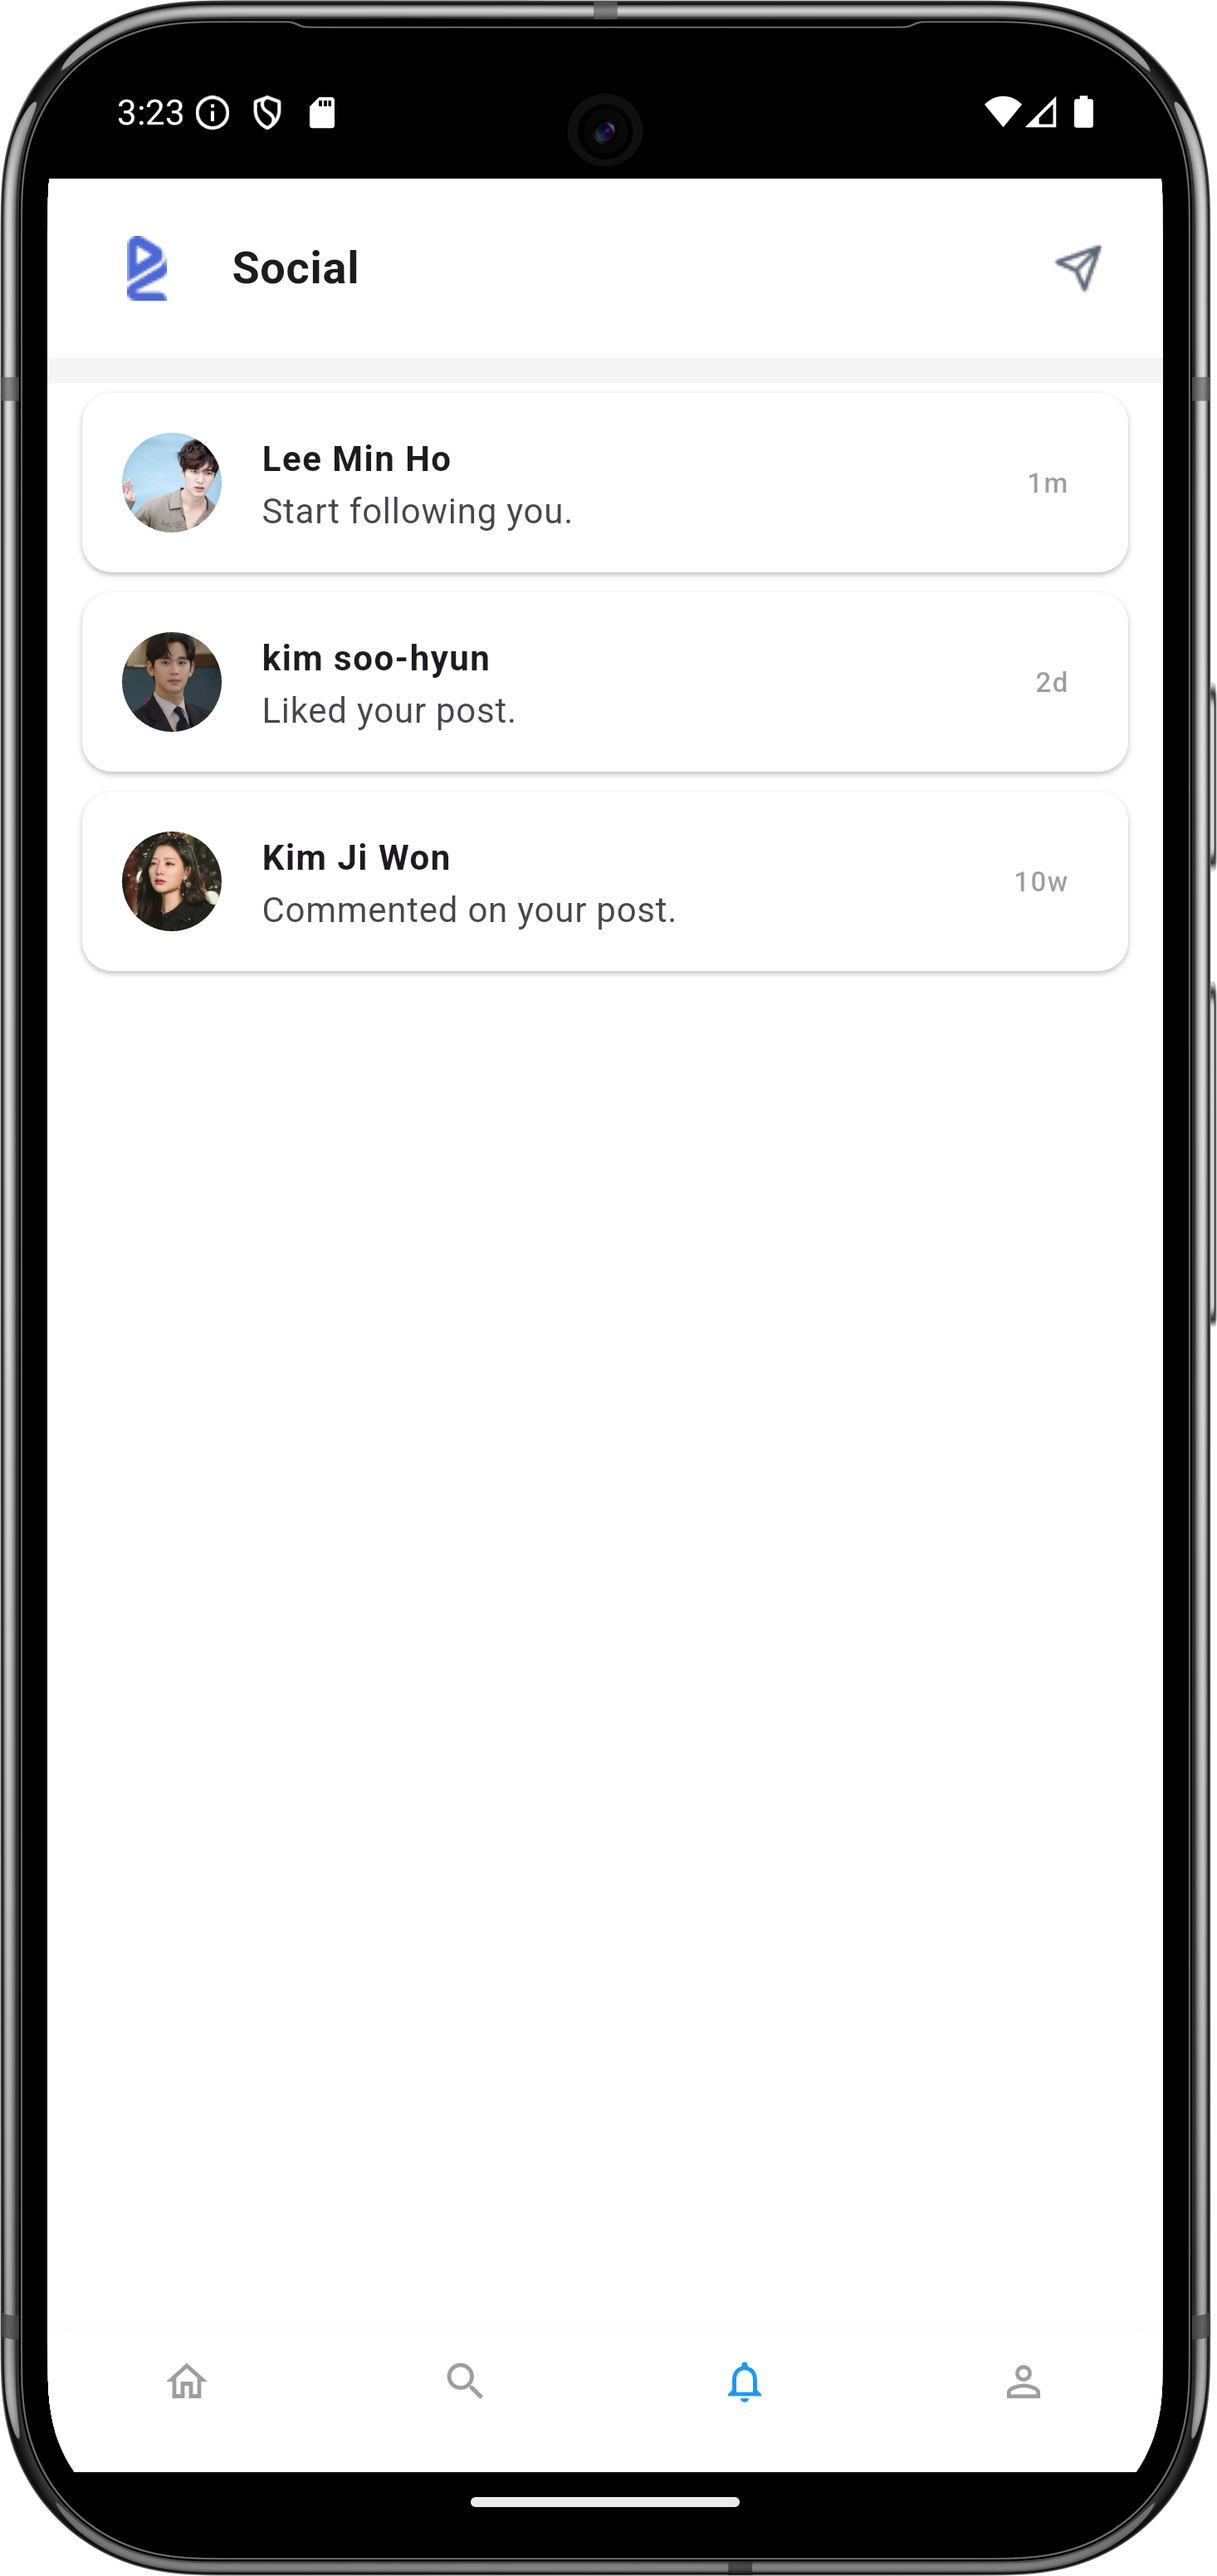
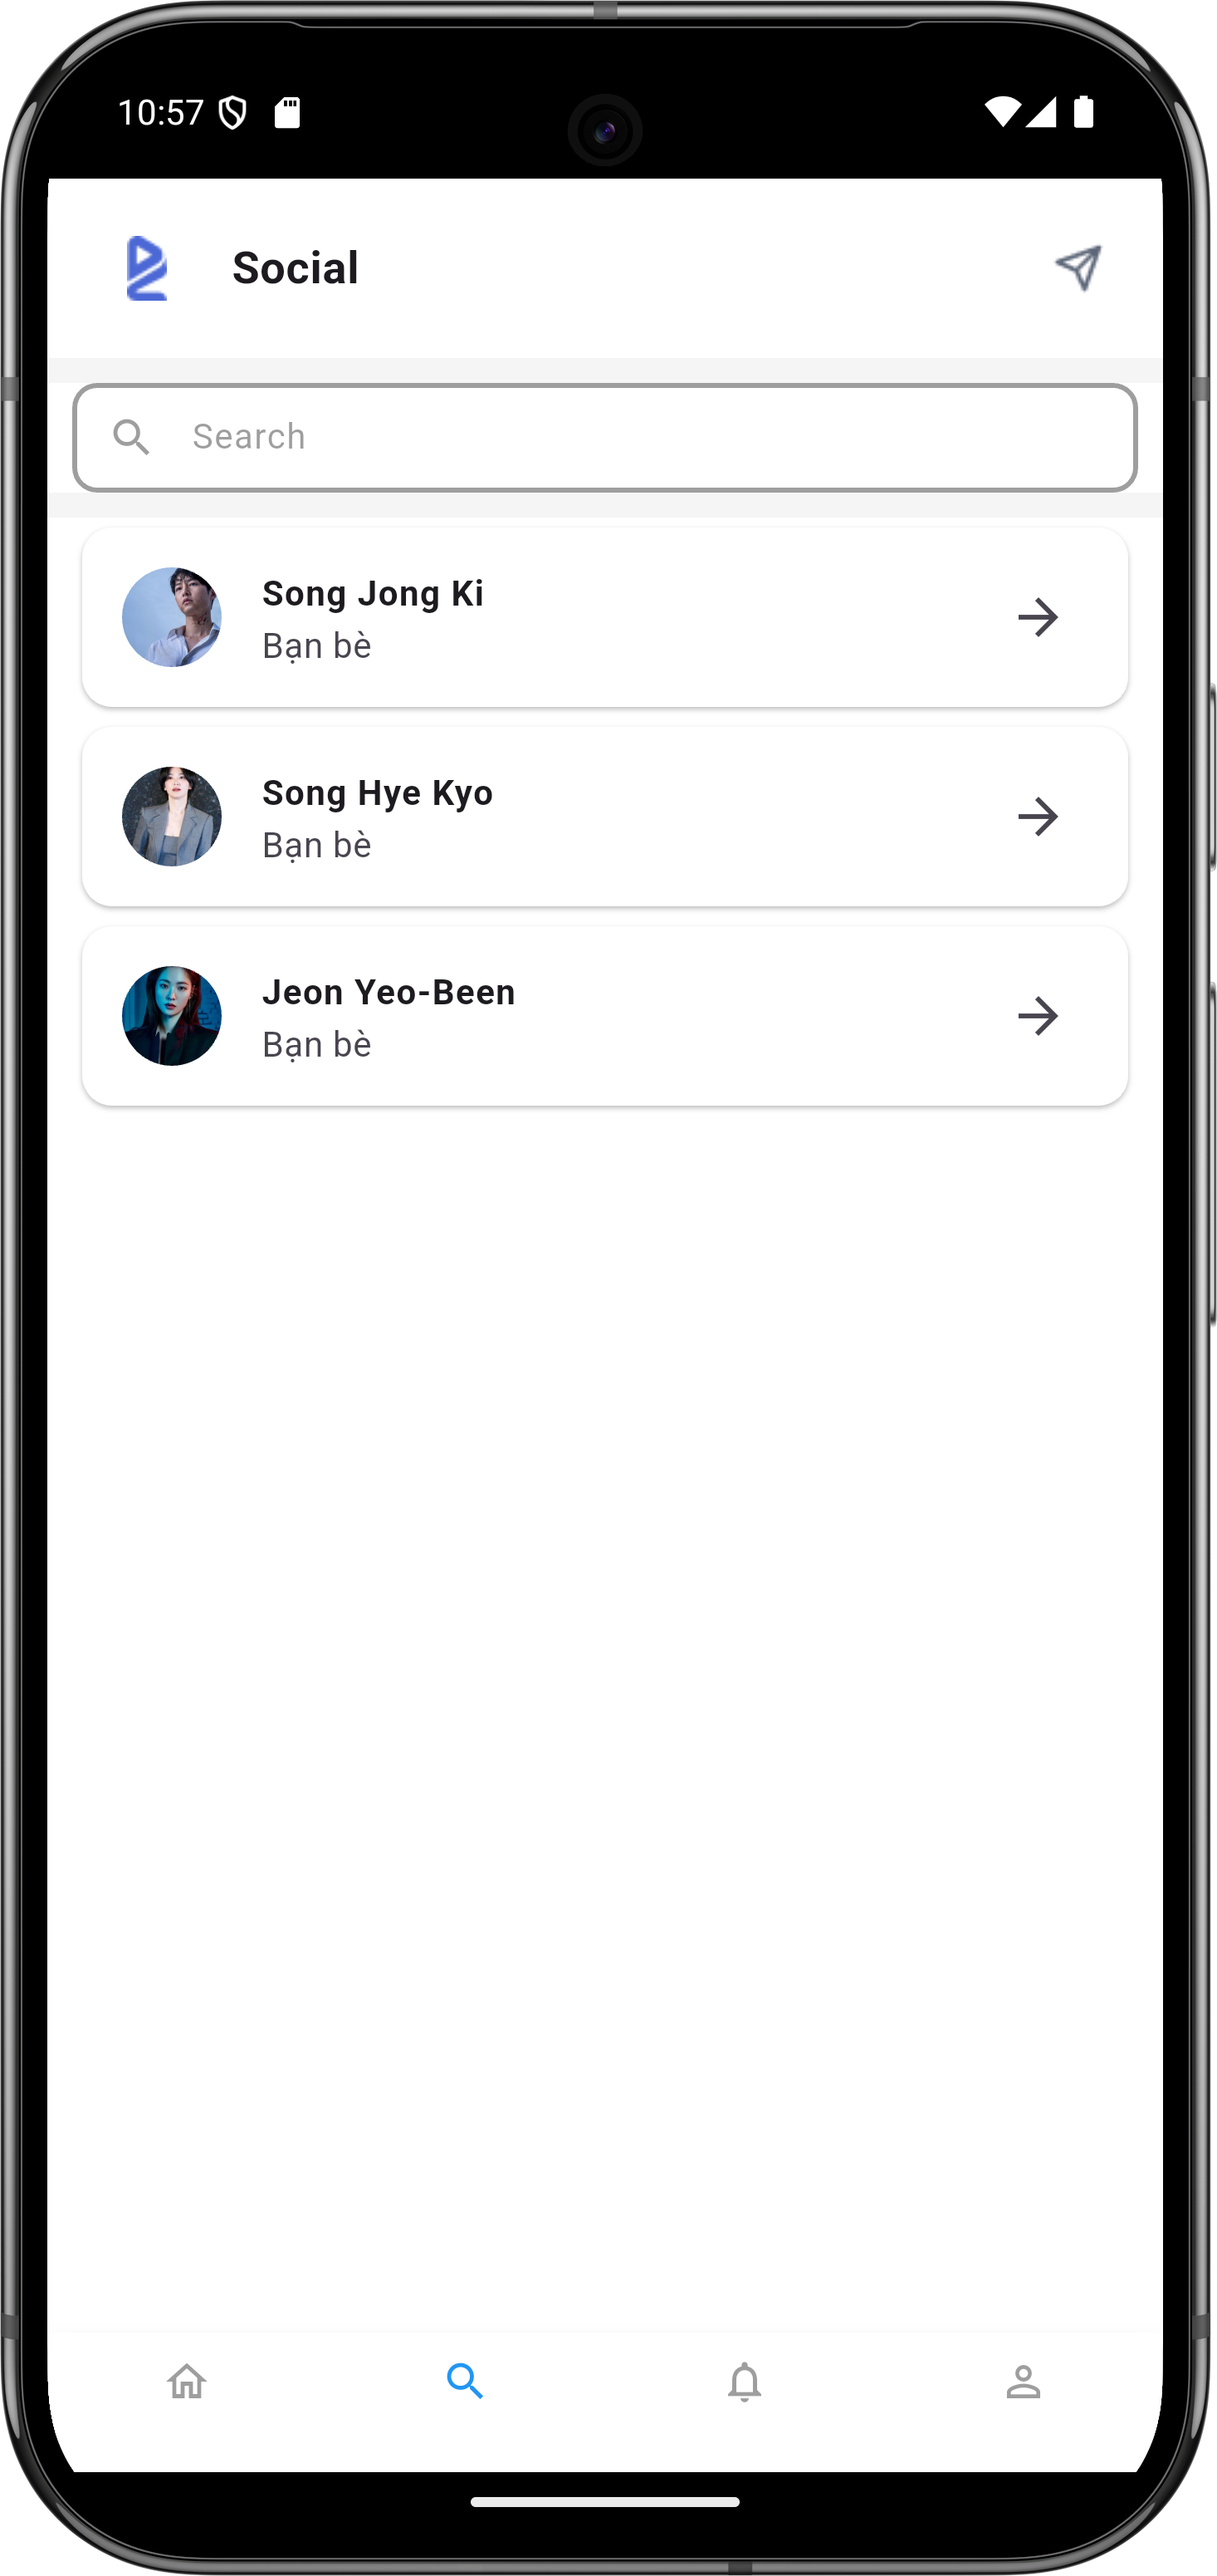
Update Search Screen

diff --git a/lib/ui/views/search_screen.dart b/lib/ui/views/search_screen.dart
@@ -1,4 +1,6 @@
 import 'package:flutter/material.dart';
+import 'package:olachat_mobile/ui/widgets/custom_sliver_to_box_adapter.dart';
+import 'package:olachat_mobile/ui/widgets/social_header.dart';
 
 class SearchScreen extends StatefulWidget {
   const SearchScreen({super.key});
@@ -38,67 +40,77 @@ class _SearchScreenState extends State<SearchScreen> {
   Widget build(BuildContext context) {
     return Scaffold(
       backgroundColor: Colors.white,
-      appBar: AppBar(
-        backgroundColor: Colors.white,
-        elevation: 0,
-        automaticallyImplyLeading: false,
+      body: CustomScrollView(
+        slivers: [
+          // View 1 - Header
+          SocialHeader(),
+          CustomSliverToBoxAdapter(),
 
-        // View 1 - TextField
-        title: SizedBox(
-          height: 44,
-          child: TextField(
-            controller: _controller,
-            decoration: InputDecoration(
-                prefixIcon: Icon(
-                  Icons.search,
-                  color: Colors.grey,
-                  size: 20,
+          //   View 2 - TextField Search
+          SliverToBoxAdapter(
+            child: SizedBox(
+              height: 44,
+              child: Padding(
+                padding: const EdgeInsets.symmetric(horizontal: 10),
+                child: TextField(
+                  controller: _controller,
+                  decoration: InputDecoration(
+                      prefixIcon: Icon(
+                        Icons.search,
+                        color: Colors.grey,
+                        size: 20,
+                      ),
+                      hintText: "Search",
+                      hintStyle: TextStyle(color: Colors.grey, fontSize: 14),
+                      border: OutlineInputBorder(
+                        borderRadius: BorderRadius.circular(10),
+                        borderSide: BorderSide(color: Colors.grey),
+                      ),
+                      filled: true,
+                      fillColor: Colors.white,
+                      focusedBorder: OutlineInputBorder(
+                        borderSide: BorderSide(color: Colors.grey, width: 2.0),
+                        borderRadius: BorderRadius.circular(10.0),
+                      ),
+                      enabledBorder: OutlineInputBorder(
+                        borderSide: BorderSide(color: Colors.grey, width: 2.0),
+                        borderRadius: BorderRadius.circular(10.0),
+                      )),
                 ),
-                hintText: "Search",
-                hintStyle: TextStyle(color: Colors.grey, fontSize: 14),
-                border: OutlineInputBorder(
-                  borderRadius: BorderRadius.circular(10),
-                  borderSide: BorderSide(color: Colors.grey),
-                ),
-                filled: true,
-                fillColor: Colors.grey[200],
-                focusedBorder: OutlineInputBorder(
-                  borderSide: BorderSide(color: Colors.grey, width: 2.0),
-                  borderRadius: BorderRadius.circular(10.0),
-                )),
-          ),
-        ),
-      ),
-
-      // View 2 - Search Results
-      body: ListView.builder(
-        itemCount: notifications.length,
-        itemBuilder: (context, index) {
-          var notification = notifications[index];
-          return Padding(
-            padding: const EdgeInsets.symmetric(horizontal: 10),
-            child: Card(
-              color: Colors.white,
-              child: ListTile(
-                leading: CircleAvatar(
-                  radius: 20,
-                  backgroundImage: NetworkImage(notification["image"]!),
-                ),
-                title: Text(
-                  notification["name"]!,
-                  style: TextStyle(fontSize: 14, fontWeight: FontWeight.bold),
-                ),
-                subtitle: Text(notification["description"]!),
-                trailing: 
-                // Text(
-                //   notification["time"]!,
-                //   style: TextStyle(color: Colors.grey),
-                // ),
-                Icon(Icons.arrow_forward_outlined)
               ),
             ),
-          );
-        },
+          ),
+          CustomSliverToBoxAdapter(),
+
+          // View 3 - List Notification
+          SliverList(
+            delegate: SliverChildBuilderDelegate(
+              (context, index) {
+                var notification = notifications[index];
+                return Padding(
+                  padding: const EdgeInsets.symmetric(horizontal: 10),
+                  child: Card(
+                    color: Colors.white,
+                    child: ListTile(
+                      leading: CircleAvatar(
+                        radius: 20,
+                        backgroundImage: NetworkImage(notification["image"]!),
+                      ),
+                      title: Text(
+                        notification["name"]!,
+                        style: TextStyle(
+                            fontSize: 14, fontWeight: FontWeight.bold),
+                      ),
+                      subtitle: Text(notification["description"]!),
+                      trailing: Icon(Icons.arrow_forward_outlined),
+                    ),
+                  ),
+                );
+              },
+              childCount: notifications.length,
+            ),
+          ),
+        ],
       ),
     );
   }
